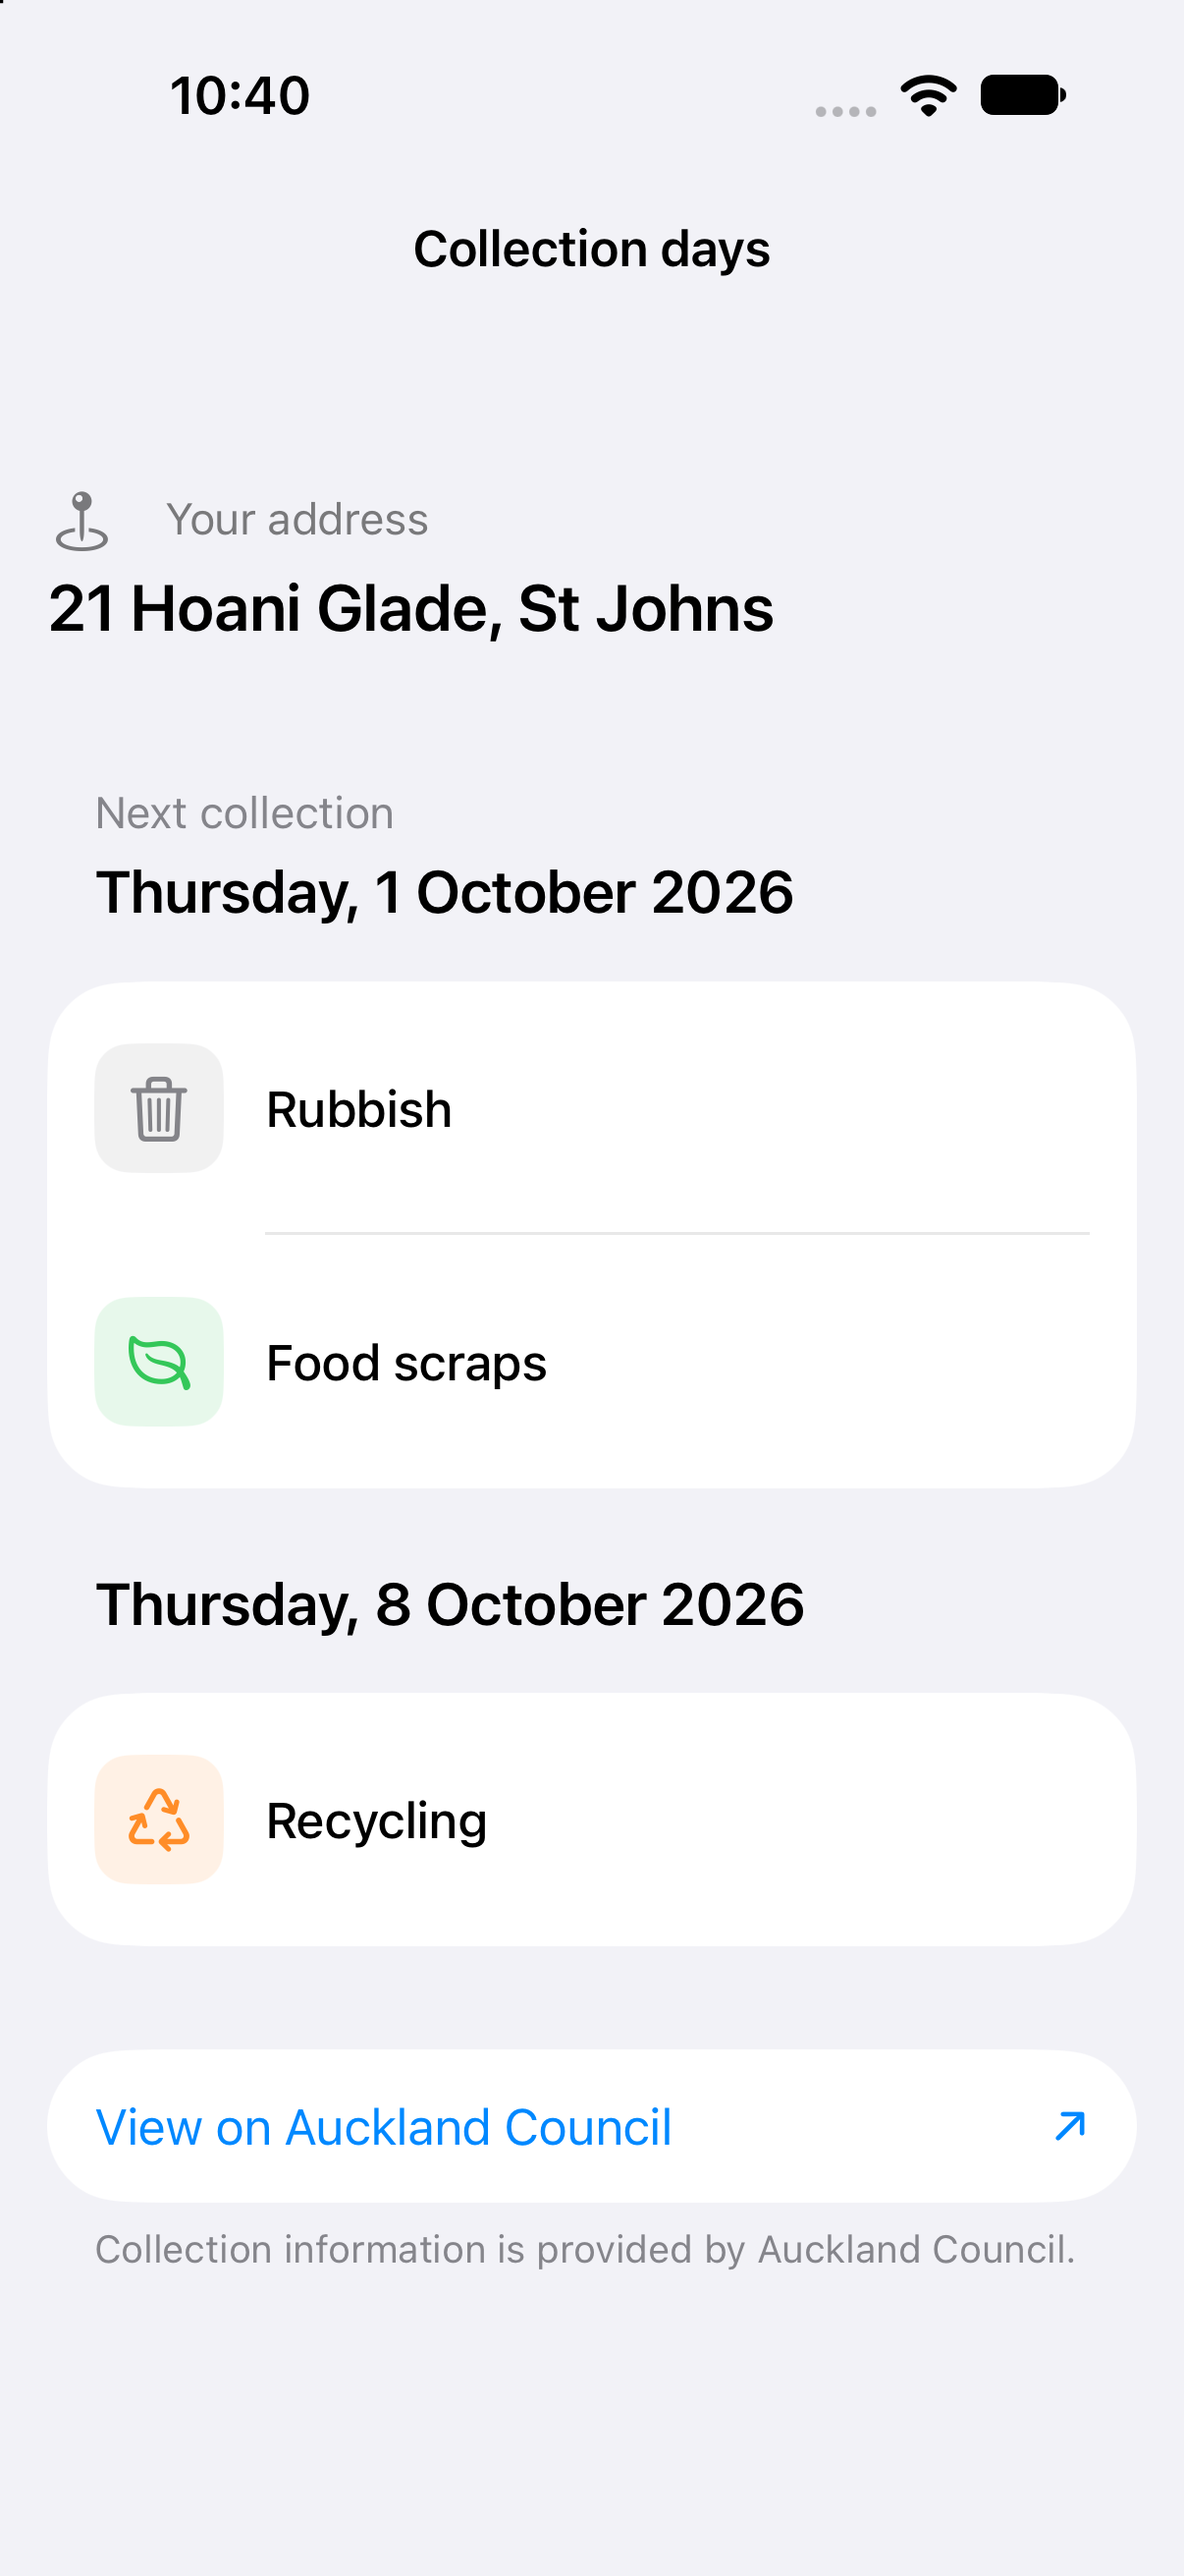
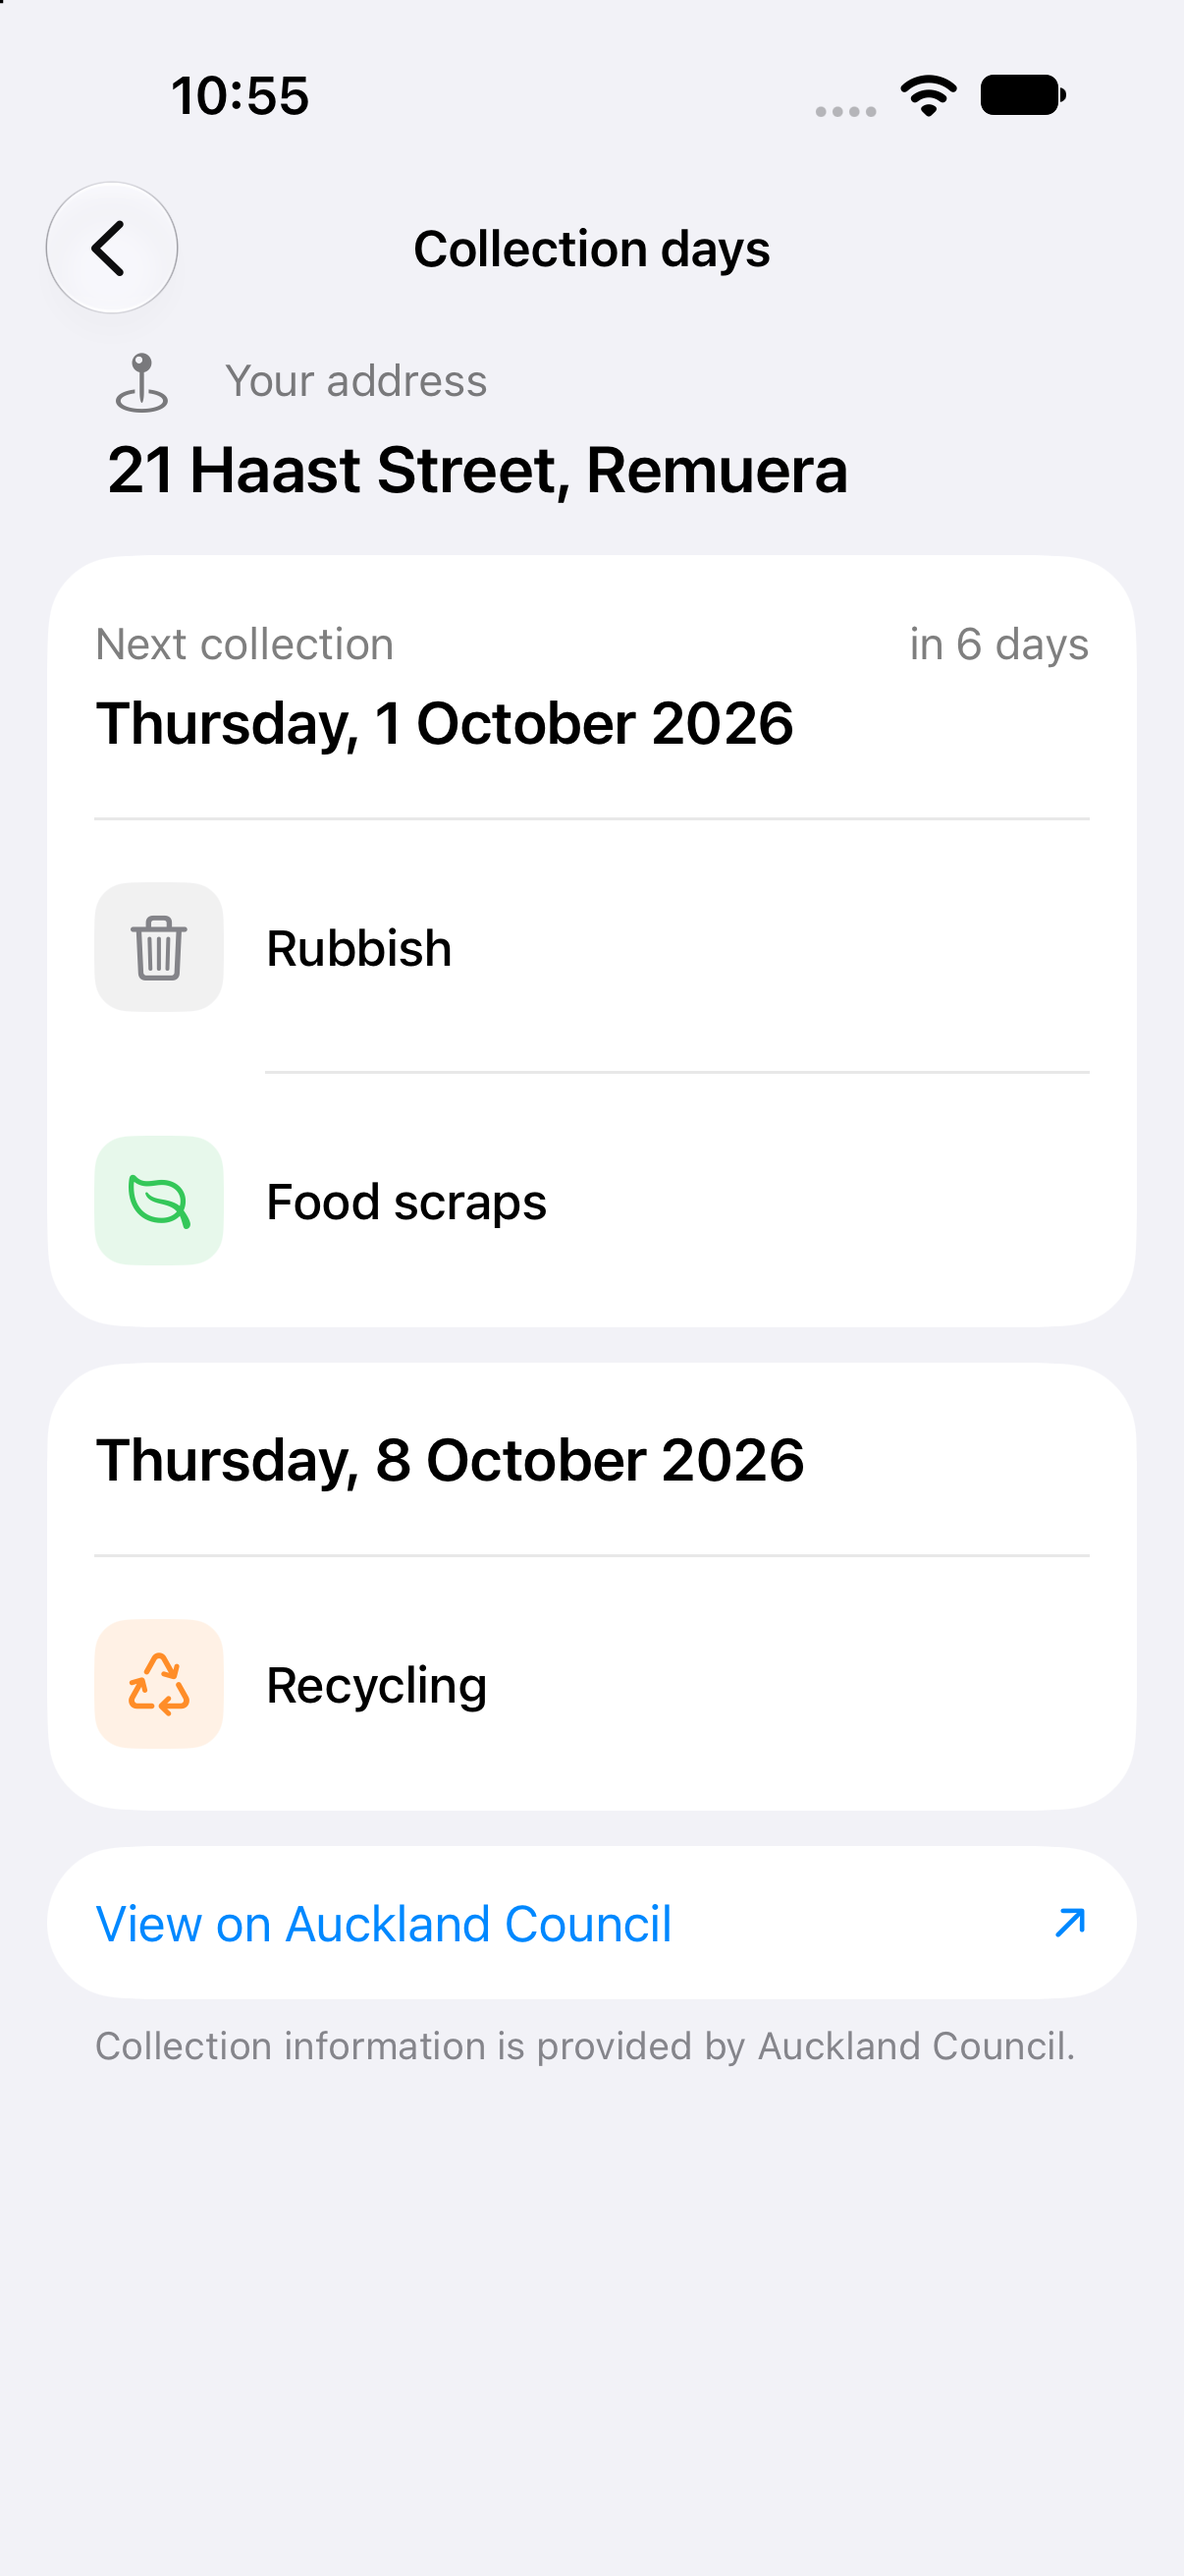
feat: refine collection days screen

diff --git a/Auckland Garbage Collection/Presentation Layer/BinDatesView.swift b/Auckland Garbage Collection/Presentation Layer/BinDatesView.swift
@@ -26,10 +26,10 @@ struct BinDatesView: View {
                         .font(.title2.weight(.semibold))
                         .fixedSize(horizontal: false, vertical: true)
                 }
-                .padding(.vertical, 8)
+                .padding(.vertical, 4)
             }
             .listRowBackground(Color.clear)
-            .listRowInsets(EdgeInsets(top: 8, leading: 0, bottom: 12, trailing: 0))
+            .listRowInsets(EdgeInsets(top: 0, leading: 20, bottom: 0, trailing: 20))
 
             if viewModel.collections.isEmpty {
                 collectionStatus
@@ -45,23 +45,43 @@ struct BinDatesView: View {
                 ForEach(collectionDays, id: \.first?.date) { collections in
                     if let first = collections.first {
                         Section {
+                            VStack(alignment: .leading, spacing: 6) {
+                                if first.date == collectionDays.first?.first?.date {
+                                    TimelineView(.periodic(from: .now, by: 60)) { context in
+                                        let relativeDate = relativeDateLabel(
+                                            for: first.collectionDate,
+                                            now: context.date
+                                        )
+
+                                        ViewThatFits(in: .horizontal) {
+                                            HStack(spacing: 12) {
+                                                Text("Next collection")
+                                                    .fixedSize(horizontal: true, vertical: false)
+                                                Spacer(minLength: 0)
+                                                Text(relativeDate)
+                                                    .fixedSize(horizontal: true, vertical: false)
+                                            }
+
+                                            VStack(alignment: .leading, spacing: 4) {
+                                                Text("Next collection")
+                                                Text(relativeDate)
+                                            }
+                                        }
+                                        .foregroundStyle(.secondary)
+                                    }
+                                    .font(.subheadline)
+                                }
+
+                                Text(first.formattedDate)
+                                    .font(.title3.weight(.semibold))
+                                    .foregroundStyle(.primary)
+                            }
+                            .padding(.vertical, 6)
+                            .accessibilityElement(children: .combine)
+
                             ForEach(collections) { collection in
                                 CollectionRow(collection: collection)
                             }
-                        } header: {
-                            VStack(alignment: .leading, spacing: 6) {
-                                if first.date == collectionDays.first?.first?.date {
-                                    Text("Next collection")
-                                        .font(.subheadline)
-                                        .foregroundStyle(Color.secondary)
-                                }
-                                Text(first.formattedDate)
-                                    .font(.title3.weight(.semibold))
-                                    .foregroundStyle(Color.primary)
-                            }
-                            .textCase(nil)
-                            .padding(.bottom, 8)
-                            .accessibilityElement(children: .combine)
                         }
                     }
                 }
@@ -81,6 +101,8 @@ struct BinDatesView: View {
             }
         }
         .listStyle(.insetGrouped)
+        .listSectionSpacing(12)
+        .contentMargins(.top, 0, for: .scrollContent)
         .navigationTitle("Collection days")
         .navigationBarTitleDisplayMode(.inline)
         .refreshable {
@@ -89,6 +111,22 @@ struct BinDatesView: View {
         .task(id: property.id) {
             await viewModel.load(propertyId: property.id)
         }
+    }
+
+    private func relativeDateLabel(for collectionDate: Date, now: Date) -> String {
+        var calendar = Calendar(identifier: .gregorian)
+        calendar.timeZone = TimeZone(identifier: "Pacific/Auckland") ?? .current
+
+        let days = calendar.dateComponents(
+            [.day],
+            from: calendar.startOfDay(for: now),
+            to: calendar.startOfDay(for: collectionDate)
+        ).day ?? 0
+
+        let formatter = RelativeDateTimeFormatter()
+        formatter.unitsStyle = .full
+        formatter.dateTimeStyle = .named
+        return formatter.localizedString(from: DateComponents(day: days))
     }
 
     @ViewBuilder
